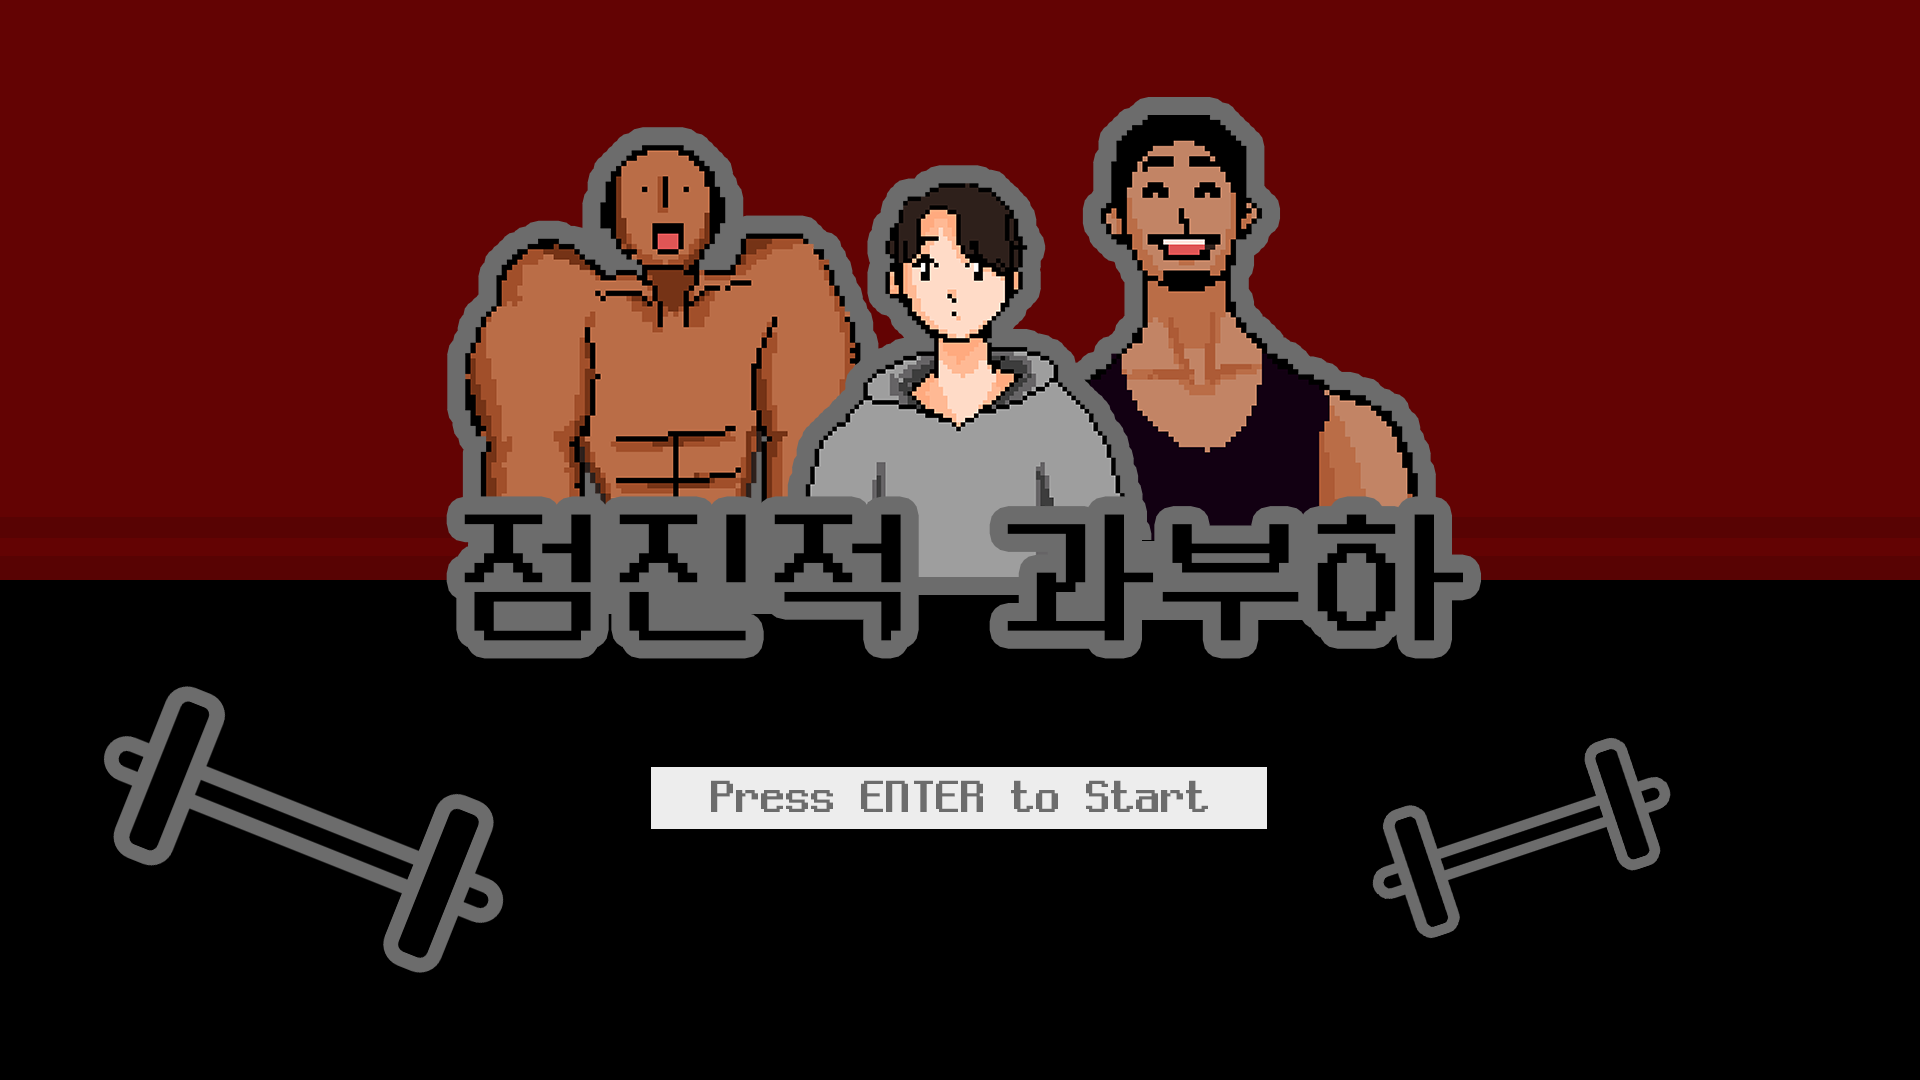
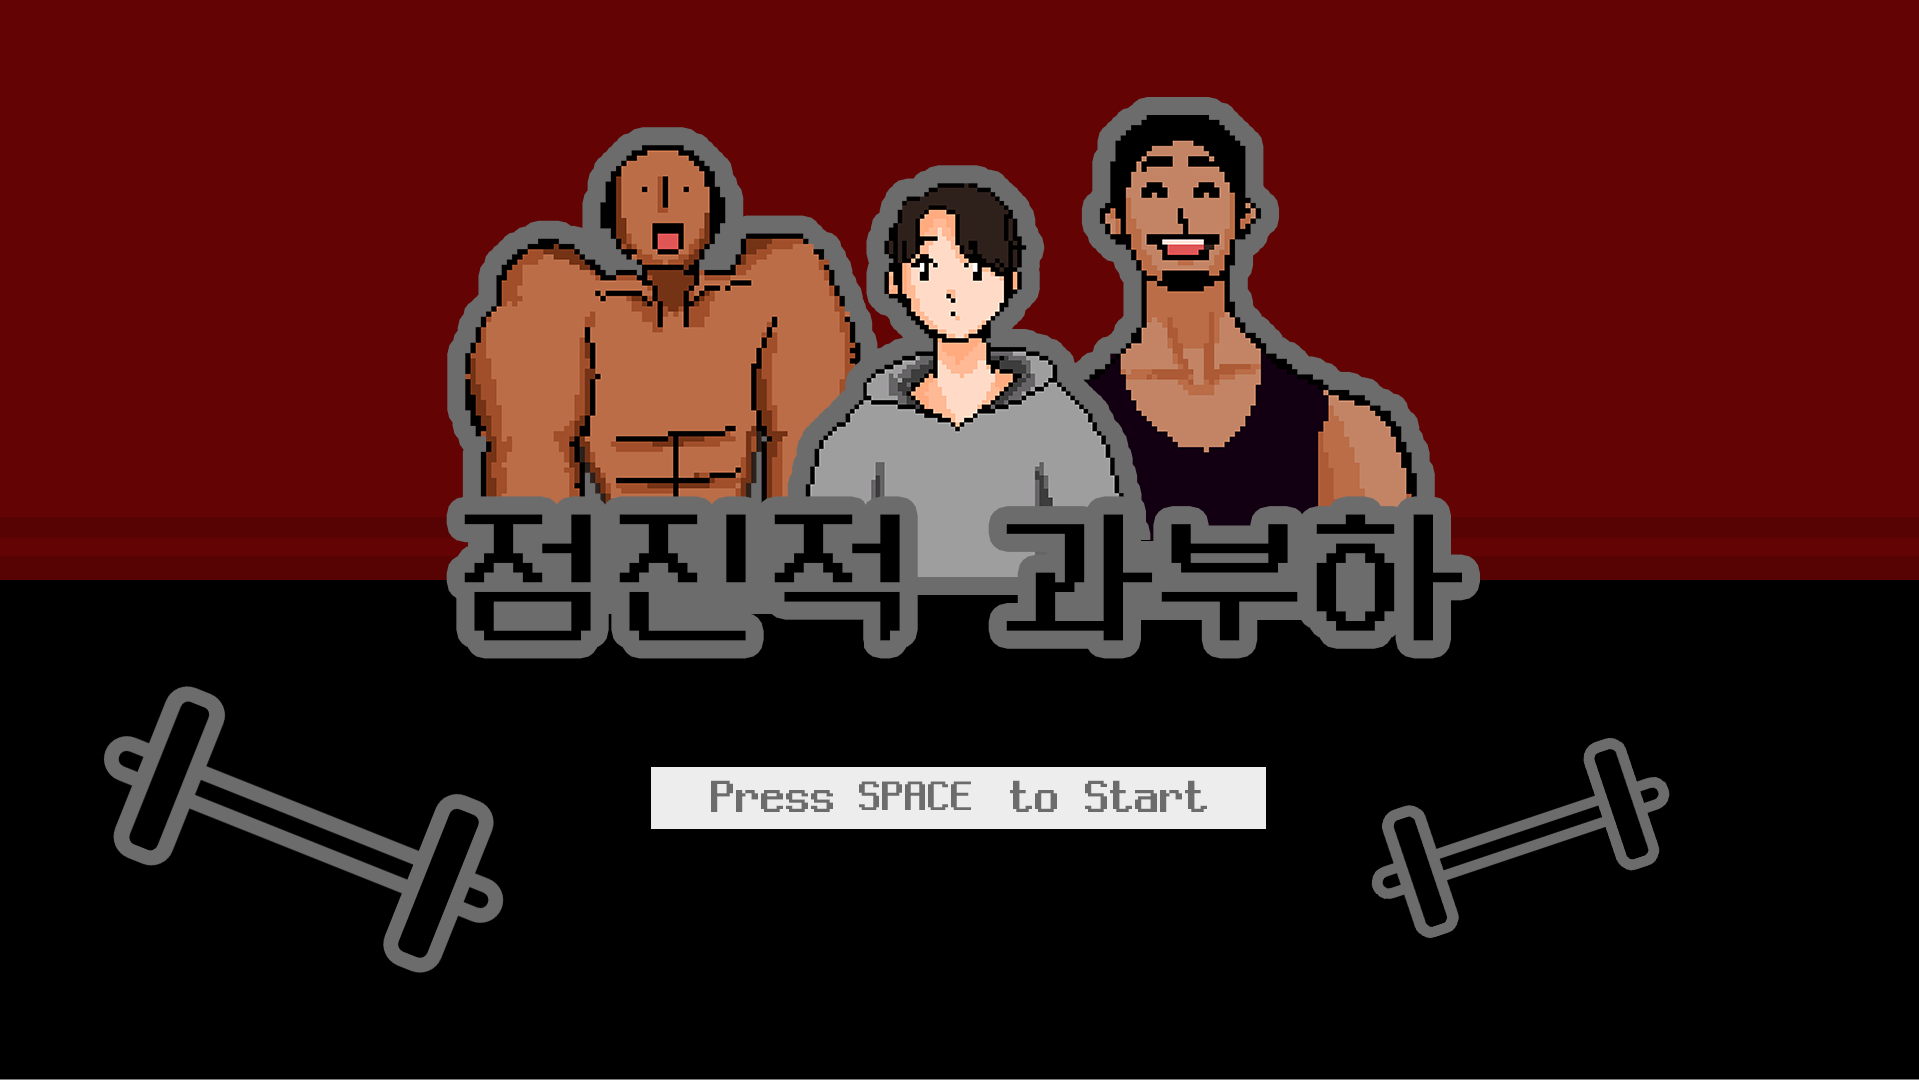
플레이테스트

Changed region(s): [[0.4304, 0.7028, 0.5227, 0.7639], [0.4612, 0.2444, 0.4919, 0.275]]

diff --git a/stage4.js b/stage4.js
@@ -25,7 +25,7 @@ class Stage4 {
         this.currChr = 0;
         this.touchUpper = false;
         this.touchLower = false;
-        this.actionTime = 5000;
+        this.actionTime = 9000;
         this.resultTime = 2000;
     }
 
@@ -37,7 +37,7 @@ class Stage4 {
         fill(255, 150);
         rect(0, 0, width, height);
         textAlign(CENTER, CENTER);
-        text("자, 그럼 ENTER를 눌러서 시작해볼까!!!", width/2, height/2);
+        text("자, 그럼 SPACE BAR를 눌러서 시작해볼까!!!", width/2, height/2);
         return;
       }
 
@@ -54,50 +54,6 @@ class Stage4 {
         image(stage4_bg[2], width / 2, height / 2, width, height);
       }
       image(stage4_ui[15], width / 2, height / 2, width, height);
-      
-
-      if (this.gaming){
-        // 캐릭터
-        image(stage4_chr_boss_default[0], width/2 + 400, height/2  - 100, 450, 450); //boss
-        // image(stage4_chr_max_default[0], width/2 - 100, height/2, 50, 100); //max
-        image(max[5], width / 2 - 100, height / 2, 600, 600); //max
-      }
-      else {
-        if(this.attackSuccess == true){
-          image(stage4_chr_boss_default[0], width/2 + 400, height/2  - 100, 450, 450); //boss
-          switch(this.seq[this.index]){
-            case 'A':
-              if (frameCount % 20 < 10) image(stage4_chr_max_punch[0], width / 2 - 100, height / 2, 600, 600);
-              else image(stage4_chr_max_punch[1], width / 2 - 100, height / 2, 600, 600);
-              break;
-            case 'B':
-              if (frameCount % 20 < 10) image(stage4_chr_max_kick[0], width / 2 - 100, height / 2, 600, 600);
-              else image(stage4_chr_max_kick[1], width / 2 - 100, height / 2, 600, 600);
-              break;
-            default:
-              break;
-          }
-          image(stage4_ui[7], width/2, height/2, stage4_ui[7].width*1.5, stage4_ui[7].height*1.5); // perfect
-        }
-        else if(this.attackFail == true){
-          if (frameCount % 20 < 10) image(stage4_chr_boss_defend[0], width/2 + 400, height/2  - 100, 450, 450);
-          else image(stage4_chr_boss_defend[1], width/2 + 400, height/2  - 100, 450, 450);
-          image(max[5], width / 2 - 100, height / 2, 600, 600); //max
-          image(stage4_ui[8], width/2, height/2, stage4_ui[8].width*1.5, stage4_ui[8].height*1.5); // miss
-        }
-        else if(this.defendSuccess == true){
-          image(stage4_chr_boss_default[0], width/2 + 400, height/2  - 100, 450, 450); //boss
-          if (frameCount % 20 < 10) image(stage4_chr_max_defend[0], width / 2 - 100, height / 2, 600, 600);
-          else image(stage4_chr_max_defend[0], width / 2 - 100, height / 2, 600, 600); // 에셋 나오면 1로 고치기
-          image(stage4_ui[7], width/2, height/2, stage4_ui[7].width*1.5, stage4_ui[7].height*1.5); // perfect
-        }
-        else if(this.defendFail == true){
-          if (frameCount % 20 < 10) image(stage4_chr_boss_default[0], width/2 + 400, height/2  - 100, 450, 450); //에셋 나오면 고치기
-          else image(stage4_chr_boss_default[0], width/2 + 400, height/2  - 100, 450, 450); // 에셋 나오면 고치기
-          image(max[5], width / 2 - 100, height / 2, 600, 600); //max
-          image(stage4_ui[8], width/2, height/2, stage4_ui[8].width*1.5, stage4_ui[8].height*1.5); // miss
-        }
-      }
       
       //ui
       imageMode(CORNER);
@@ -375,14 +331,14 @@ class Stage4 {
         textAlign(RIGHT, CENTER);
         textSize(25);
         fill(0);
-        text("오버헤드 프레스", width / 8 - 30, height / 2 - 230 + 80);
+        text("오버헤드 프레스", width / 8 + 30, height / 2 - 230 + 80);
       }
 
       // 호의 길이에 따라 끝 각도 계산
       this.endAngle = map(this.arcLength, 0, 300, 0, 360);
 
       // 부채꼴 그리기
-      fill(0, 90); // 색상 설정
+      fill(0); // 색상 설정
       noStroke();
       arc(135, 70, this.radius * 2, this.radius * 2, this.startAngle, this.startAngle + this.endAngle); // 원 중심 좌표와 크기, 시작각과 끝각 설정
 
@@ -390,6 +346,51 @@ class Stage4 {
         this.arcLength = 10; // 호의 길이가 최대값에 도달하면 초기값으로 되돌림
         fill(255, 0, 0);
         //rect(width / 2, height / 2, 500, 500);
+      }
+
+      if (this.gaming){
+        // 캐릭터
+        image(stage4_chr_boss_default[0], width/2 + 400, height/2  - 100, 450, 450); //boss
+        image(stage4_chr_max_default[0], width/2, height/2, 600, 600); //max
+        //image(max[5], width / 2 - 100, height / 2, 600, 600); //max
+      }
+      else {
+        if(this.attackSuccess == true){
+          if (!stage4_snd[3].isPlaying()) stage4_snd[3].play();
+          image(stage4_chr_boss_defend[0], width/2 + 400, height/2  - 100, 450, 450); //boss
+          switch(this.seq[this.index]){
+            case 'A':
+              if (frameCount % 20 < 10) image(stage4_chr_max_punch[0], width / 2, height / 2, 600, 600);
+              else image(stage4_chr_max_punch[1], width / 2, height / 2, 600, 600);
+              break;
+            case 'B':
+              if (frameCount % 20 < 10) image(stage4_chr_max_kick[0], width / 2, height / 2, 600, 600);
+              else image(stage4_chr_max_kick[1], width / 2, height / 2, 600, 600);
+              break;
+            default:
+              break;
+          }
+          image(stage4_ui[7], width/2, height/2, stage4_ui[7].width*1.5, stage4_ui[7].height*1.5); // perfect
+        }
+        else if(this.attackFail == true){
+          if (!stage4_snd[9].isPlaying()) stage4_snd[9].play();
+          image(stage4_chr_boss_defend[1], width/2 + 400, height/2  - 100, 450, 450);
+          image(stage4_chr_max_default[0], width/2, height/2, 600, 600); //max
+          image(stage4_ui[8], width/2, height/2, stage4_ui[8].width*1.5, stage4_ui[8].height*1.5); // miss
+        }
+        else if(this.defendSuccess == true){
+          if (!stage4_snd[5].isPlaying()) stage4_snd[5].play();
+          image(stage4_chr_boss_attack[0], width/2 + 400, height/2  - 100, 450, 450); //boss
+          image(stage4_chr_max_defend[1], width / 2, height / 2, 600, 600);
+          image(stage4_chr_max_defend[0], width / 2, height / 2, 600, 600);
+          image(stage4_ui[7], width/2, height/2, stage4_ui[7].width*1.5, stage4_ui[7].height*1.5); // perfect
+        }
+        else if(this.defendFail == true){
+          if (!stage4_snd[3].isPlaying()) stage4_snd[3].play();
+          image(stage4_chr_boss_attack[0], width/2 + 400, height/2  - 100, 450, 450);
+          image(stage4_chr_max_default[0], width/2, height/2, 600, 600); //max
+          image(stage4_ui[8], width/2, height/2, stage4_ui[8].width*1.5, stage4_ui[8].height*1.5); // miss
+        }
       }
 
     }//displayGame()의 끝

diff --git a/sketch.js b/sketch.js
@@ -9,8 +9,8 @@
 
 
 // 게임 단계 - phase, scene, cut(각 클래스 안에서 다룸)
-let phase = 4;
-let scene = 2;
+let phase = 0;
+let scene = 0;
 
 // phase0의 클래스 - start
 let gameTitle;
@@ -297,33 +297,33 @@ function preload(){
   for(let i=0; i<1; i++){
     stage4_bg[i] = loadImage('assets/phase4/stage4/bg/' + i + '.png');
   }
-  for(let i=0; i<1; i++){
-    stage4_chr[i] = loadImage('assets/phase4/stage4/chr/' + i + '.png');
-  }
+  // for(let i=0; i<1; i++){
+  //   stage4_chr[i] = loadImage('assets/phase4/stage4/chr/' + i + '.png');
+  // }
 
   // stage4
   for(let i=0; i<3; i++){
     stage4_bg[i] = loadImage('assets/phase4/stage4/bg/' + i + '.png');
   }
   
-  // for(let i=0; i<1; i++){
-  //   stage4_chr_max_default[i] = loadImage('assets/phase4/stage4/chr/max/default' + i + '.png'); // 1
-  // }
+  for(let i=0; i<1; i++){
+    stage4_chr_max_default[i] = loadImage('assets/phase4/stage4/chr/max/default/' + i + '.png'); // 1
+  }
   for(let i=0; i<2; i++){
     stage4_chr_max_punch[i] = loadImage('assets/phase4/stage4/chr/max/punch/' + i + '.png'); // 2
   }
   for(let i=0; i<2; i++){
     stage4_chr_max_kick[i] = loadImage('assets/phase4/stage4/chr/max/kick/' + i + '.png'); // 2
   }
-  for(let i=0; i<1; i++){
+  for(let i=0; i<2; i++){
     stage4_chr_max_defend[i] = loadImage('assets/phase4/stage4/chr/max/defend/' + i + '.png'); // 2
   }
   for(let i=0; i<1; i++){
     stage4_chr_boss_default[i] = loadImage('assets/phase4/stage4/chr/boss/default/' + i + '.png'); // 1
   }
-  // for(let i=0; i<2; i++){
-  //   stage4_chr_boss_attack[i] = loadImage('assets/phase4/stage4/chr/boss/attack/' + i + '.png'); // 2
-  // }
+  for(let i=0; i<1; i++){
+    stage4_chr_boss_attack[i] = loadImage('assets/phase4/stage4/chr/boss/attack/' + i + '.png'); // 2
+  }
   for(let i=0; i<2; i++){
     stage4_chr_boss_defend[i] = loadImage('assets/phase4/stage4/chr/boss/defend/' + i + '.png'); // 2
   }
@@ -380,8 +380,8 @@ function setup() {
 
 // phase, scene, cut에 따서 실행해야 하는 함수를 부른다
 function draw() {
-  console.log("phase " + phase);
-  console.log("scene " + scene);
+  // console.log("phase " + phase);
+  // console.log("scene " + scene);
   switch(phase){
     case 0: //phase0 : gameTitle~gameIntro
       if(scene == 0){
@@ -442,7 +442,7 @@ function draw() {
         // story4.display();
       }
       else if (scene == 2){ // tutorial4
-        // tutorial4.display();
+        tutorial4.display();
       }
       else if (scene == 3){ // stage4
         if(stage4.countMax > 0 && stage4.countBoss > 0){
@@ -450,7 +450,7 @@ function draw() {
             trackWrists();
             stage4.play();
             stage4.displayGame();
-            stage4.arcLength += 3;
+            stage4.arcLength += 0.7;
           }
           else if(stage4.gaming == false){
             if (stage4.check2sec() == true){
@@ -542,16 +542,19 @@ function keyPressed(){
           }
           else {
             scene++;
-            map4.moveOn = true;
+            //map4.moveOn = true;
           }
         }
         else if (scene == 3){ //stage1
-          if (stage1.cut < stage1.maxCut) stage1.cut++;
-          else scene++;
+          if (stage1.count <= 0){
+            if (stage1.cut < stage1.maxCut) stage1.cut++;
+            else scene++;
+          }
         }
         else if (scene == 4){ //clear1
           if (clear1.cut < clear1.maxCut) clear1.cut++;
           else {
+            console.log("NEXT");
             phase = 4;
             scene = 2;
           }

diff --git a/clear1.js b/clear1.js
@@ -7,10 +7,15 @@ class Clear1{
     }
 
     display(){
-        image(stage1_bg[0], 0, 0);
-        image(coach[0], width/2, height*2/5, 300, 300);
-        image(ui[4], width/2, height*4/5, 500, 200);
+        imageMode(CENTER);
+        image(stage1_bg[0], width/2, height/2, width, height);
+        image(coach[0], width / 2, height / 2, max[3].width / 3, max[3].height / 3);
+        image(ui[4], width/2, height/2, width, height);
         textAlign(LEFT, TOP)
+        fill(0);
         text(this.dialogue[this.cut], width/2 - 580, height - 250);
+        textAlign(CENTER, CENTER);
+        fill(255);
+        text("코치 볼트", width / 2 - 460, height / 2 + 65);
     }
 }
